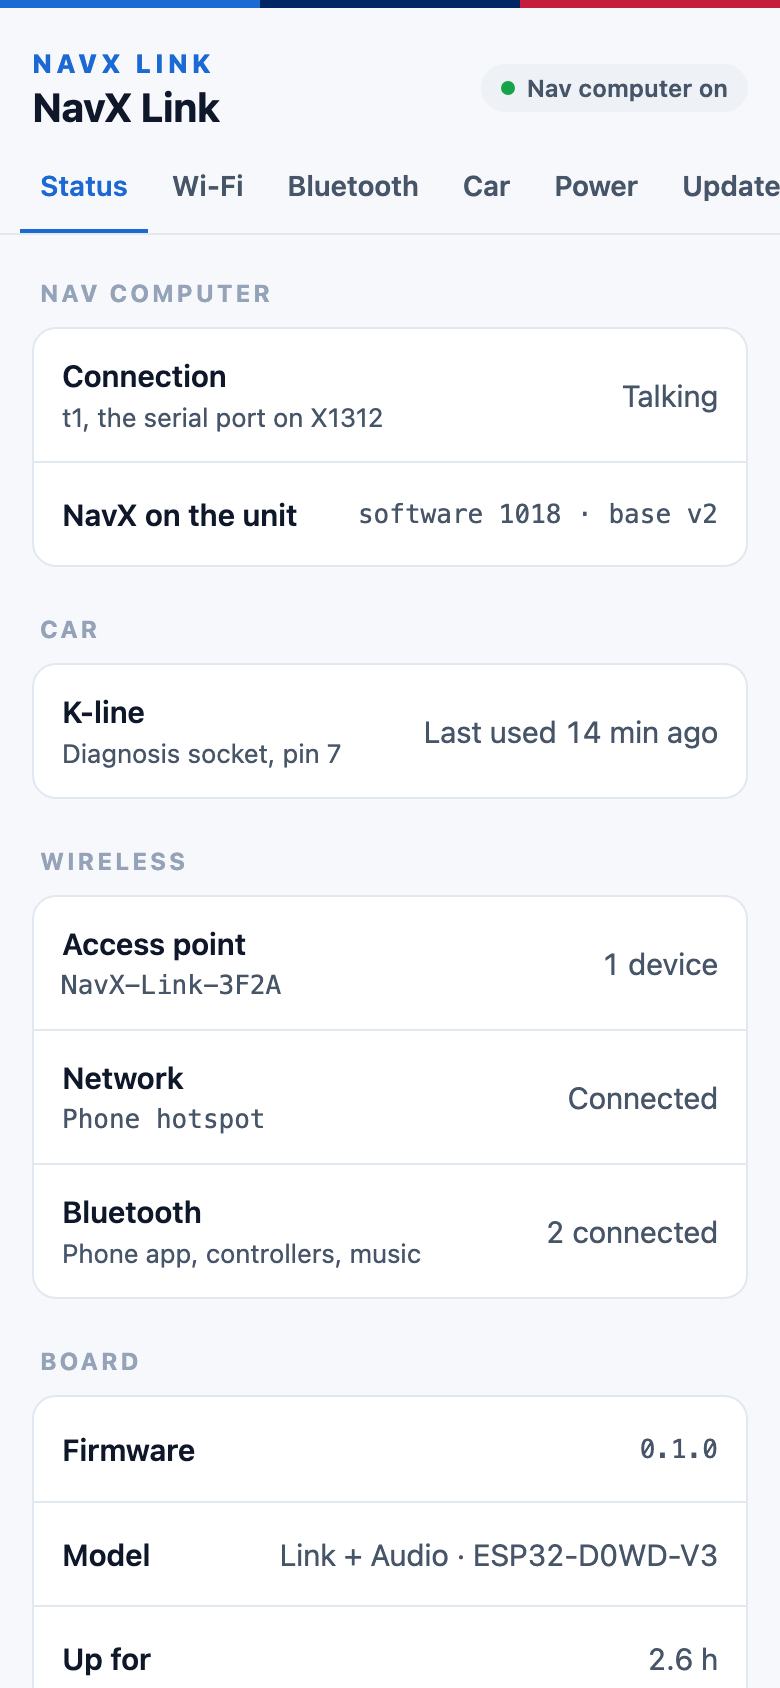
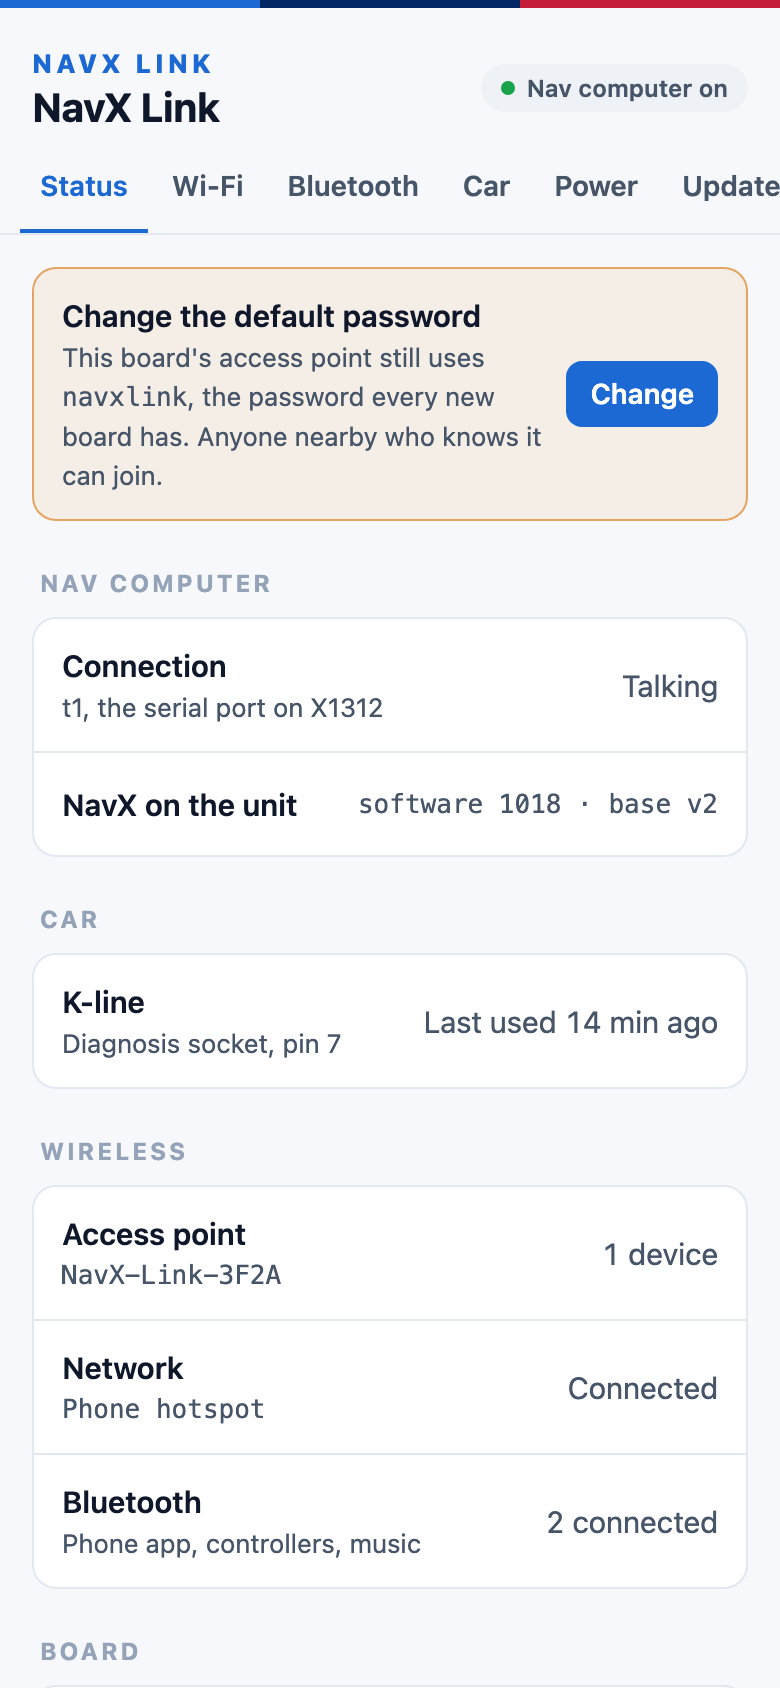
NavX Link guide: default access point password navxlink
Claude-Session: https://claude.ai/code/session_01V7gBdsU4u62Ajb22va6Ae4

diff --git a/docs/tools/navx/link.md b/docs/tools/navx/link.md
@@ -167,8 +167,10 @@ The board's firmware and the protocol are in development.
 ### Setting up the board
 
 The board brings up its own Wi-Fi, `NavX-Link-` and four characters,
-with a random password from its first start. Join it from a phone and
-its setup page opens (or go to `192.168.4.1`).
+with the password `navxlink`. Every new board has that one, and a
+factory reset brings it back, so change it first: the setup page asks
+until you do. Join it from a phone and its setup page opens (or go to
+`192.168.4.1`).
 
 <div class="phone-shots">
   <figure><img src="/navx/link/portal-status.png" alt="Status: the nav computer, the K-line, Wi-Fi and Bluetooth"><figcaption>Status</figcaption></figure>
